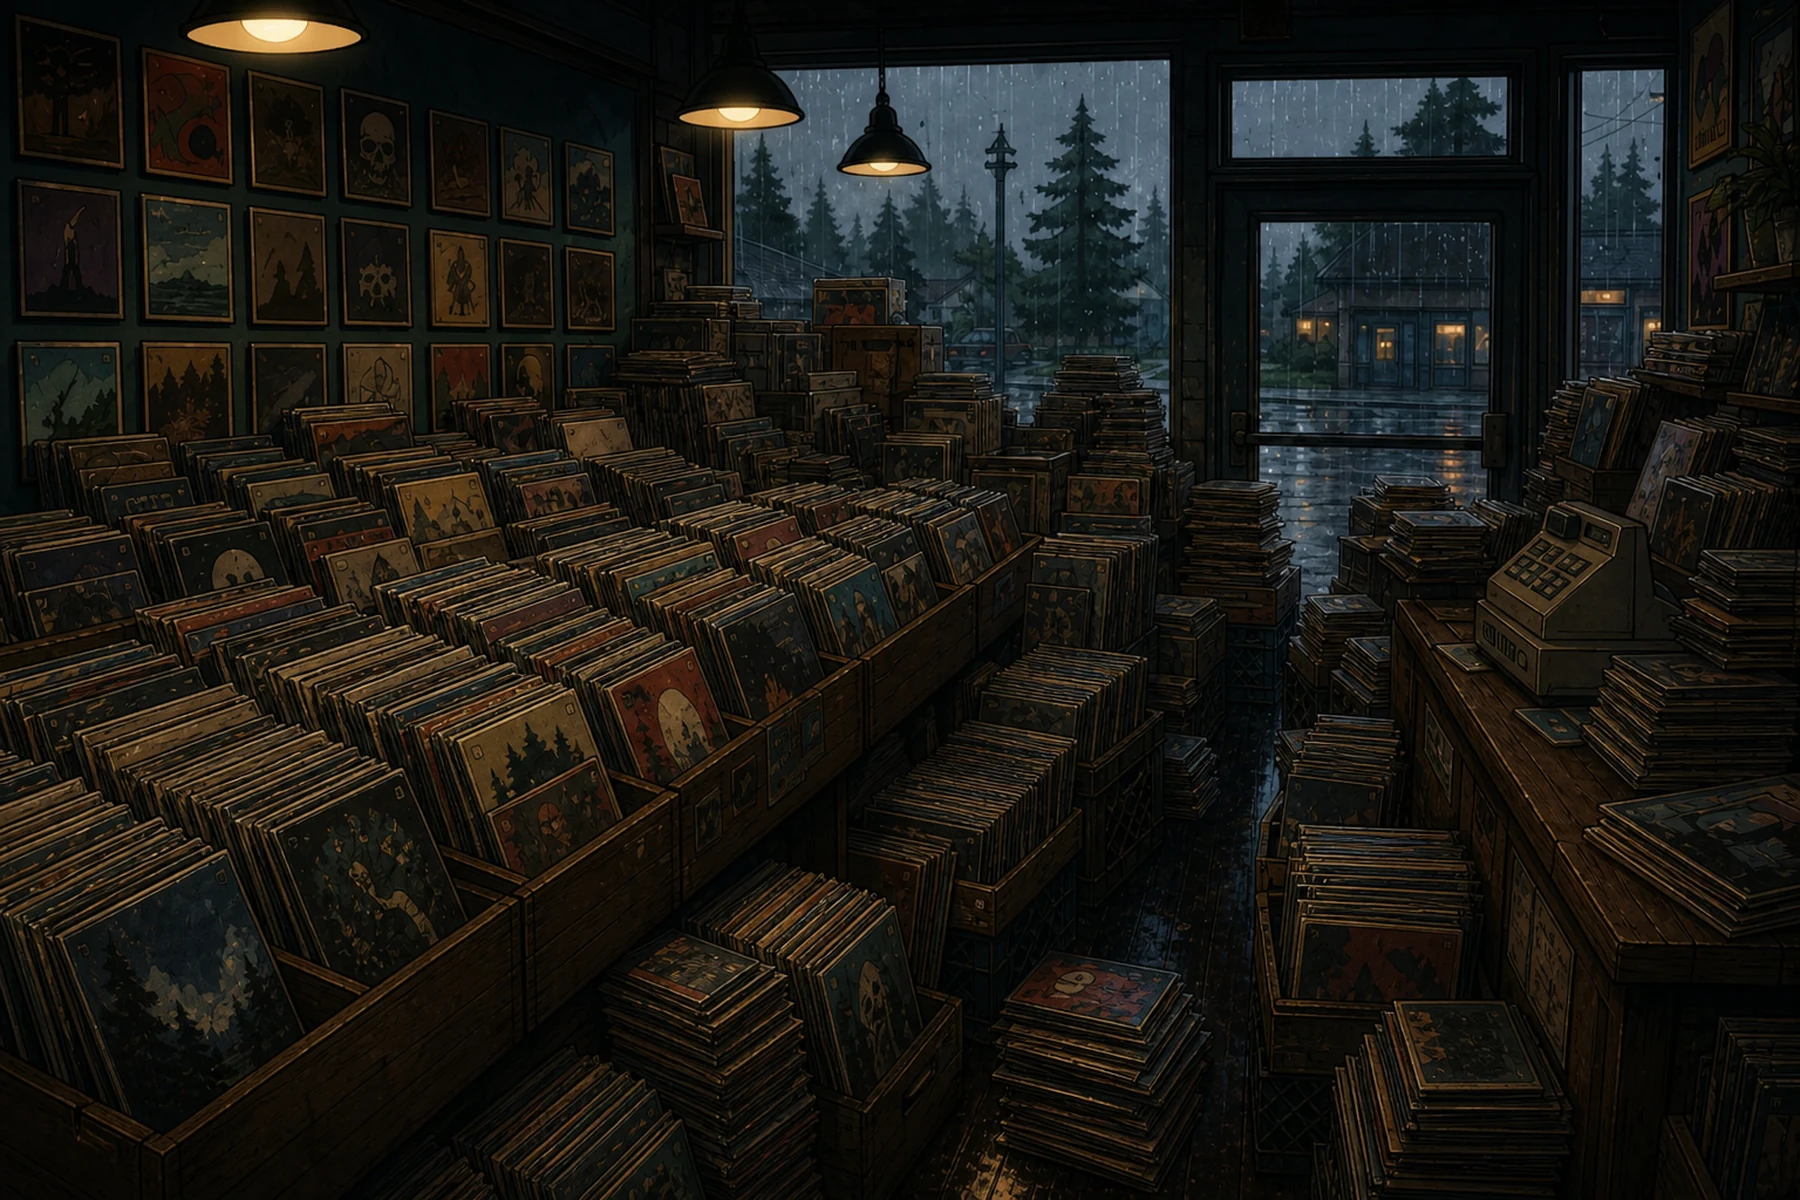
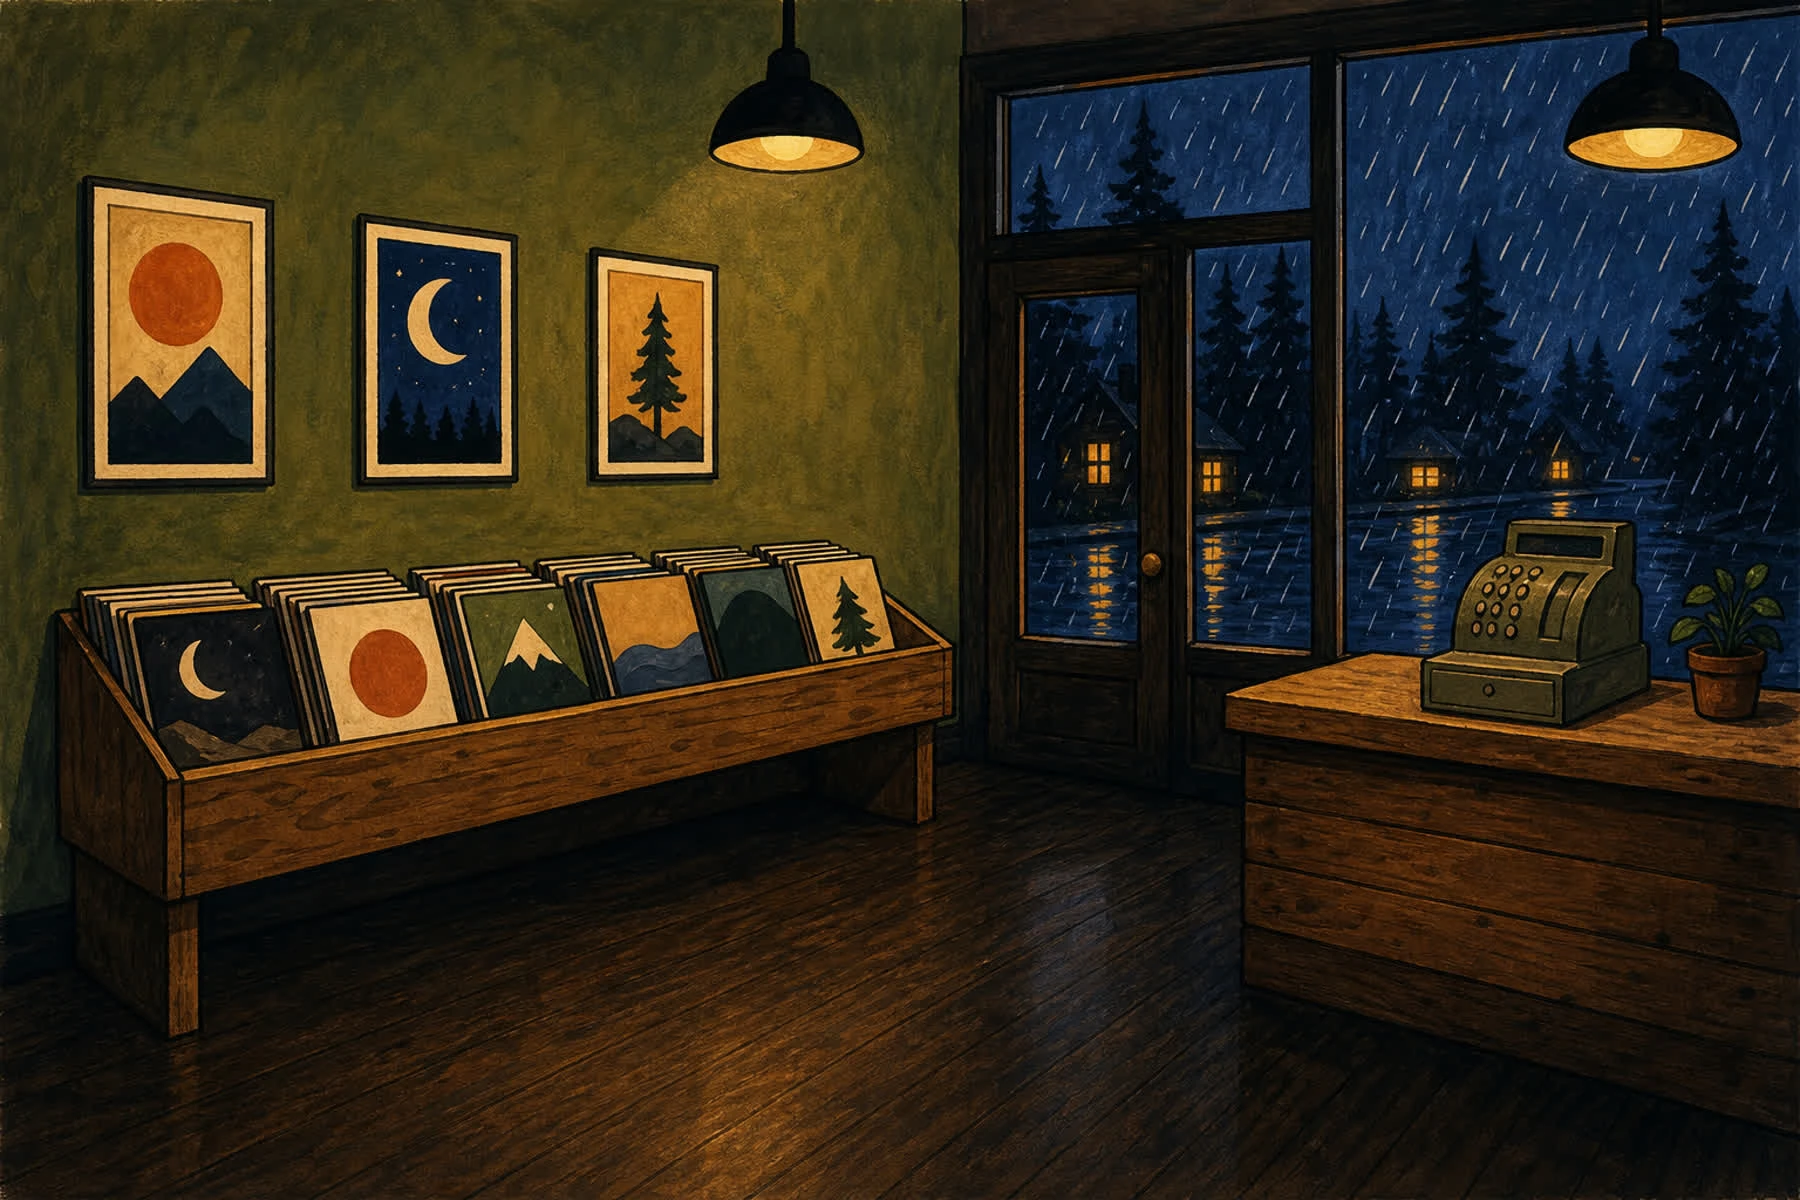
Replace crowded AI shop art with hand-illustrated boutique record shop (#334)
Redraw the homepage place section background as a cleaner cartoon
illustration with open floor, fewer bins, and PNW rainy night mood.

diff --git a/index.html b/index.html
@@ -1259,7 +1259,7 @@
       width: 100%;
       height: 100%;
       object-fit: cover;
-      /* Wide Y2K shop illustration — keep lamps + windows in frame */
+      /* Boutique shop illustration — keep lamps + rainy window in frame */
       object-position: 50% 42%;
       display: block;
       transform: scale(1.04);
@@ -1736,7 +1736,7 @@
   <!-- Place — one PNW beat between catalog and news -->
   <section class="place" aria-labelledby="place-title">
     <div class="place-frame" aria-hidden="true">
-      <img class="place-img" src="place-shop-y2k.webp" alt="Dark PNW cartoon record shop — Club Copy" width="1800" height="1200" loading="lazy" decoding="async"/>
+      <img class="place-img" src="place-shop-y2k.webp" alt="Hand-illustrated PNW boutique record shop — Club Copy" width="1800" height="1200" loading="lazy" decoding="async"/>
       <div class="place-veil"></div>
     </div>
     <div class="place-copy rv">
